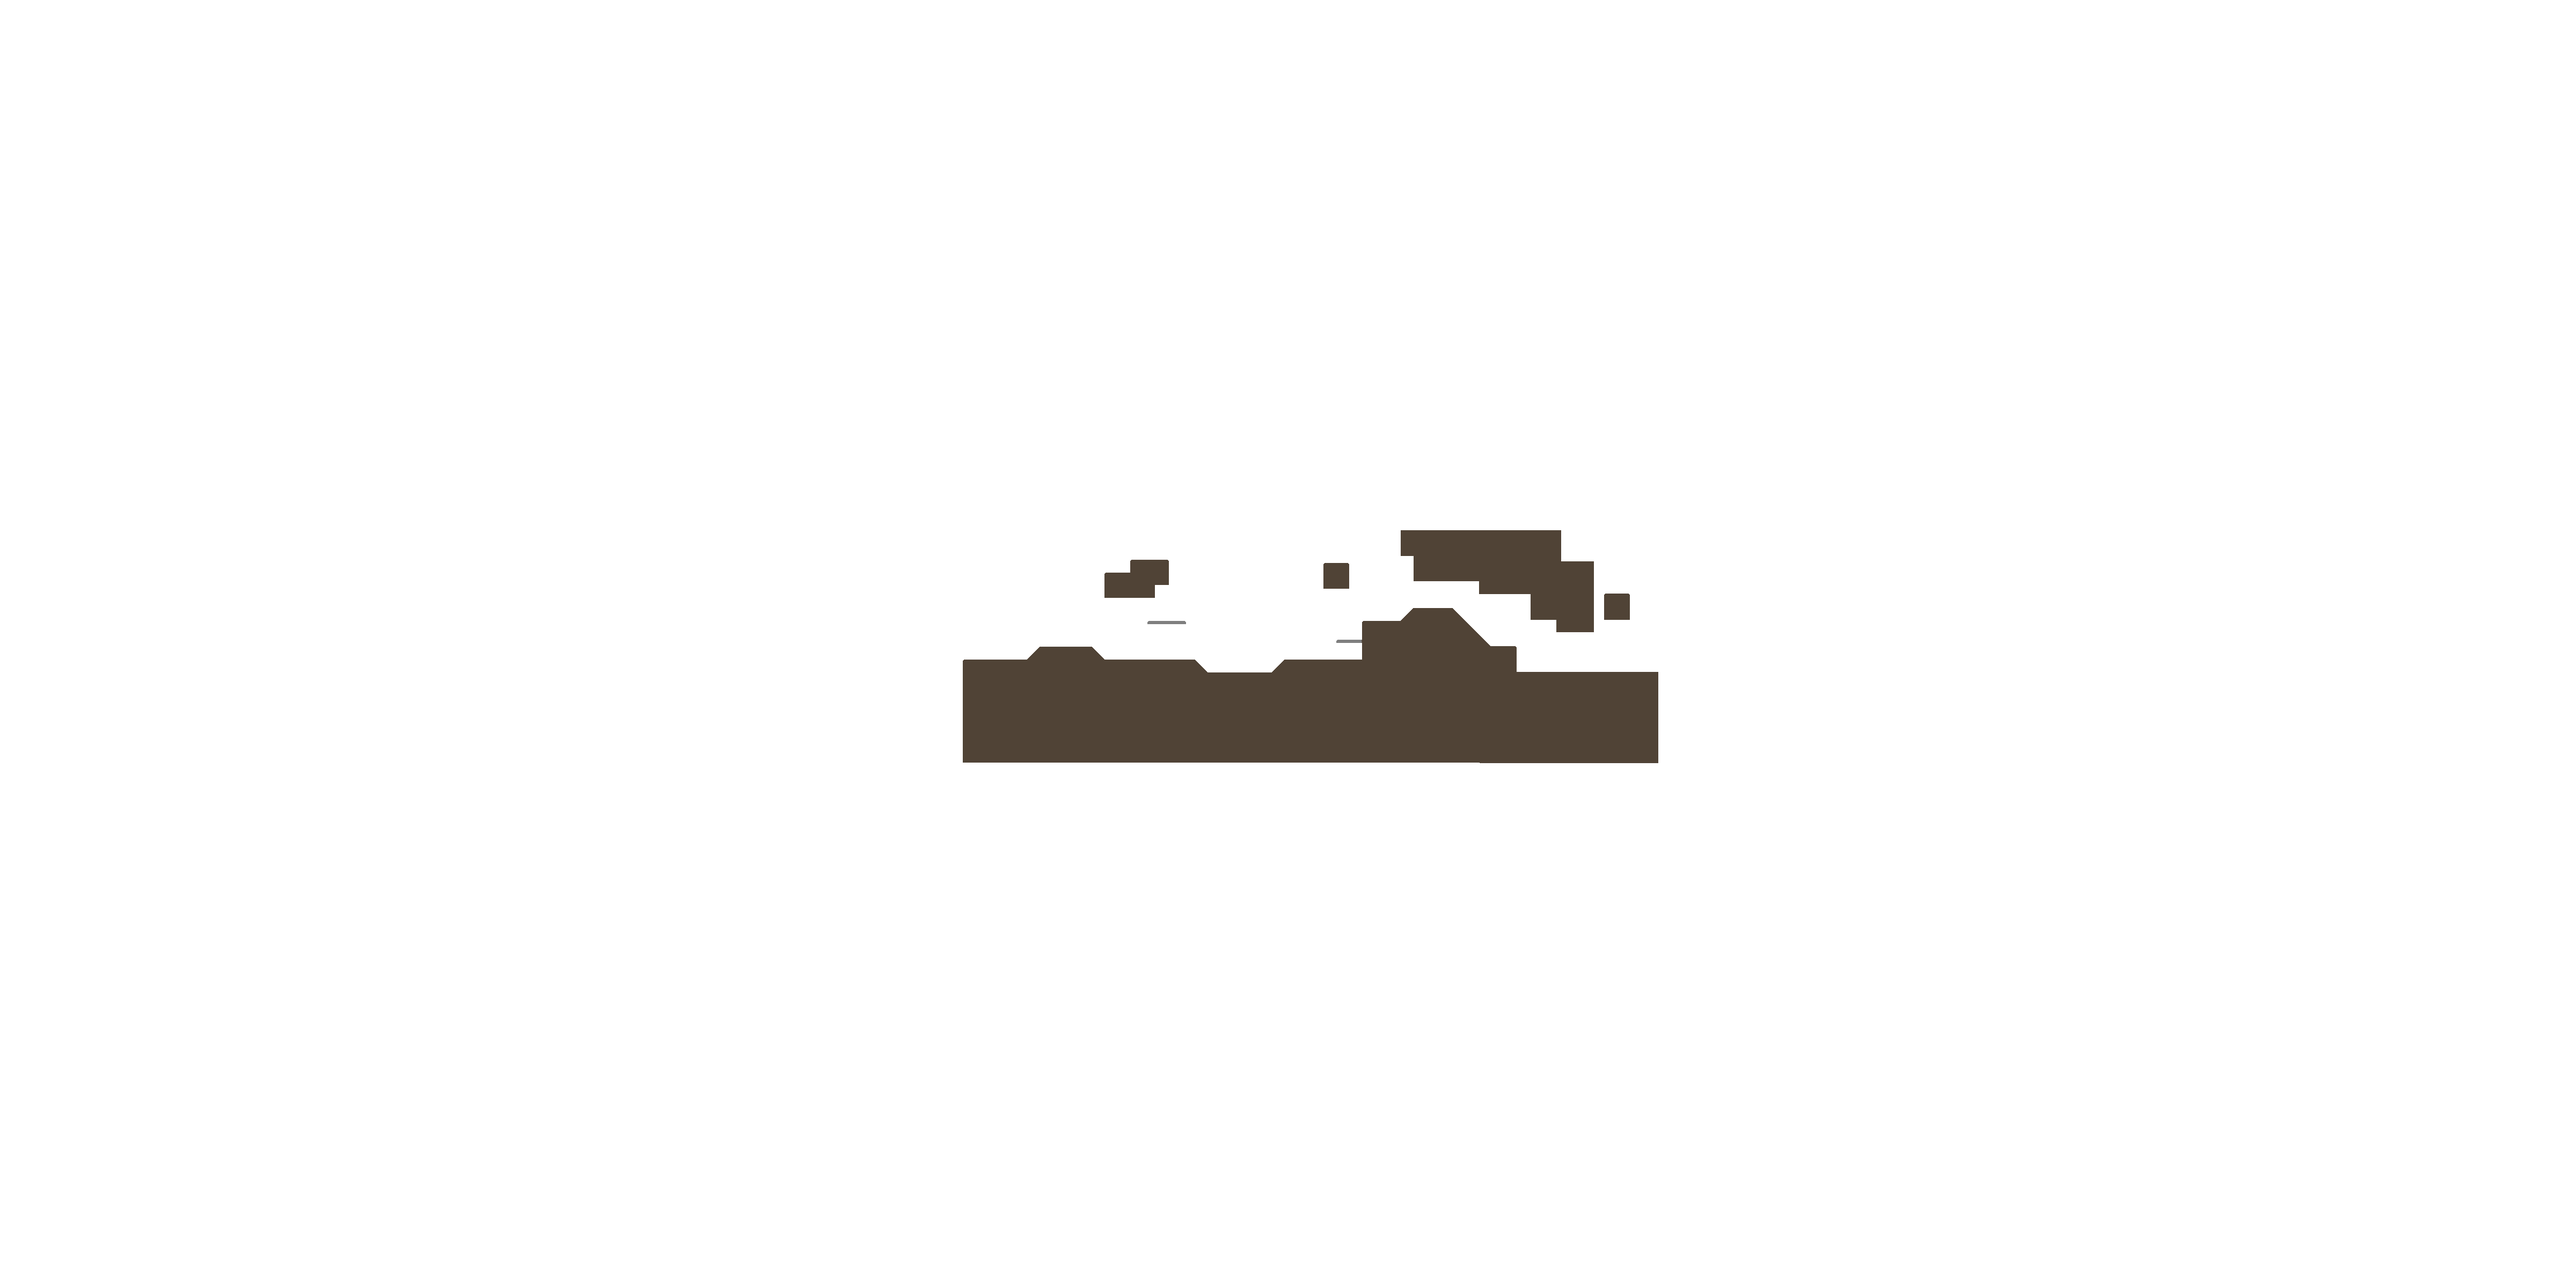
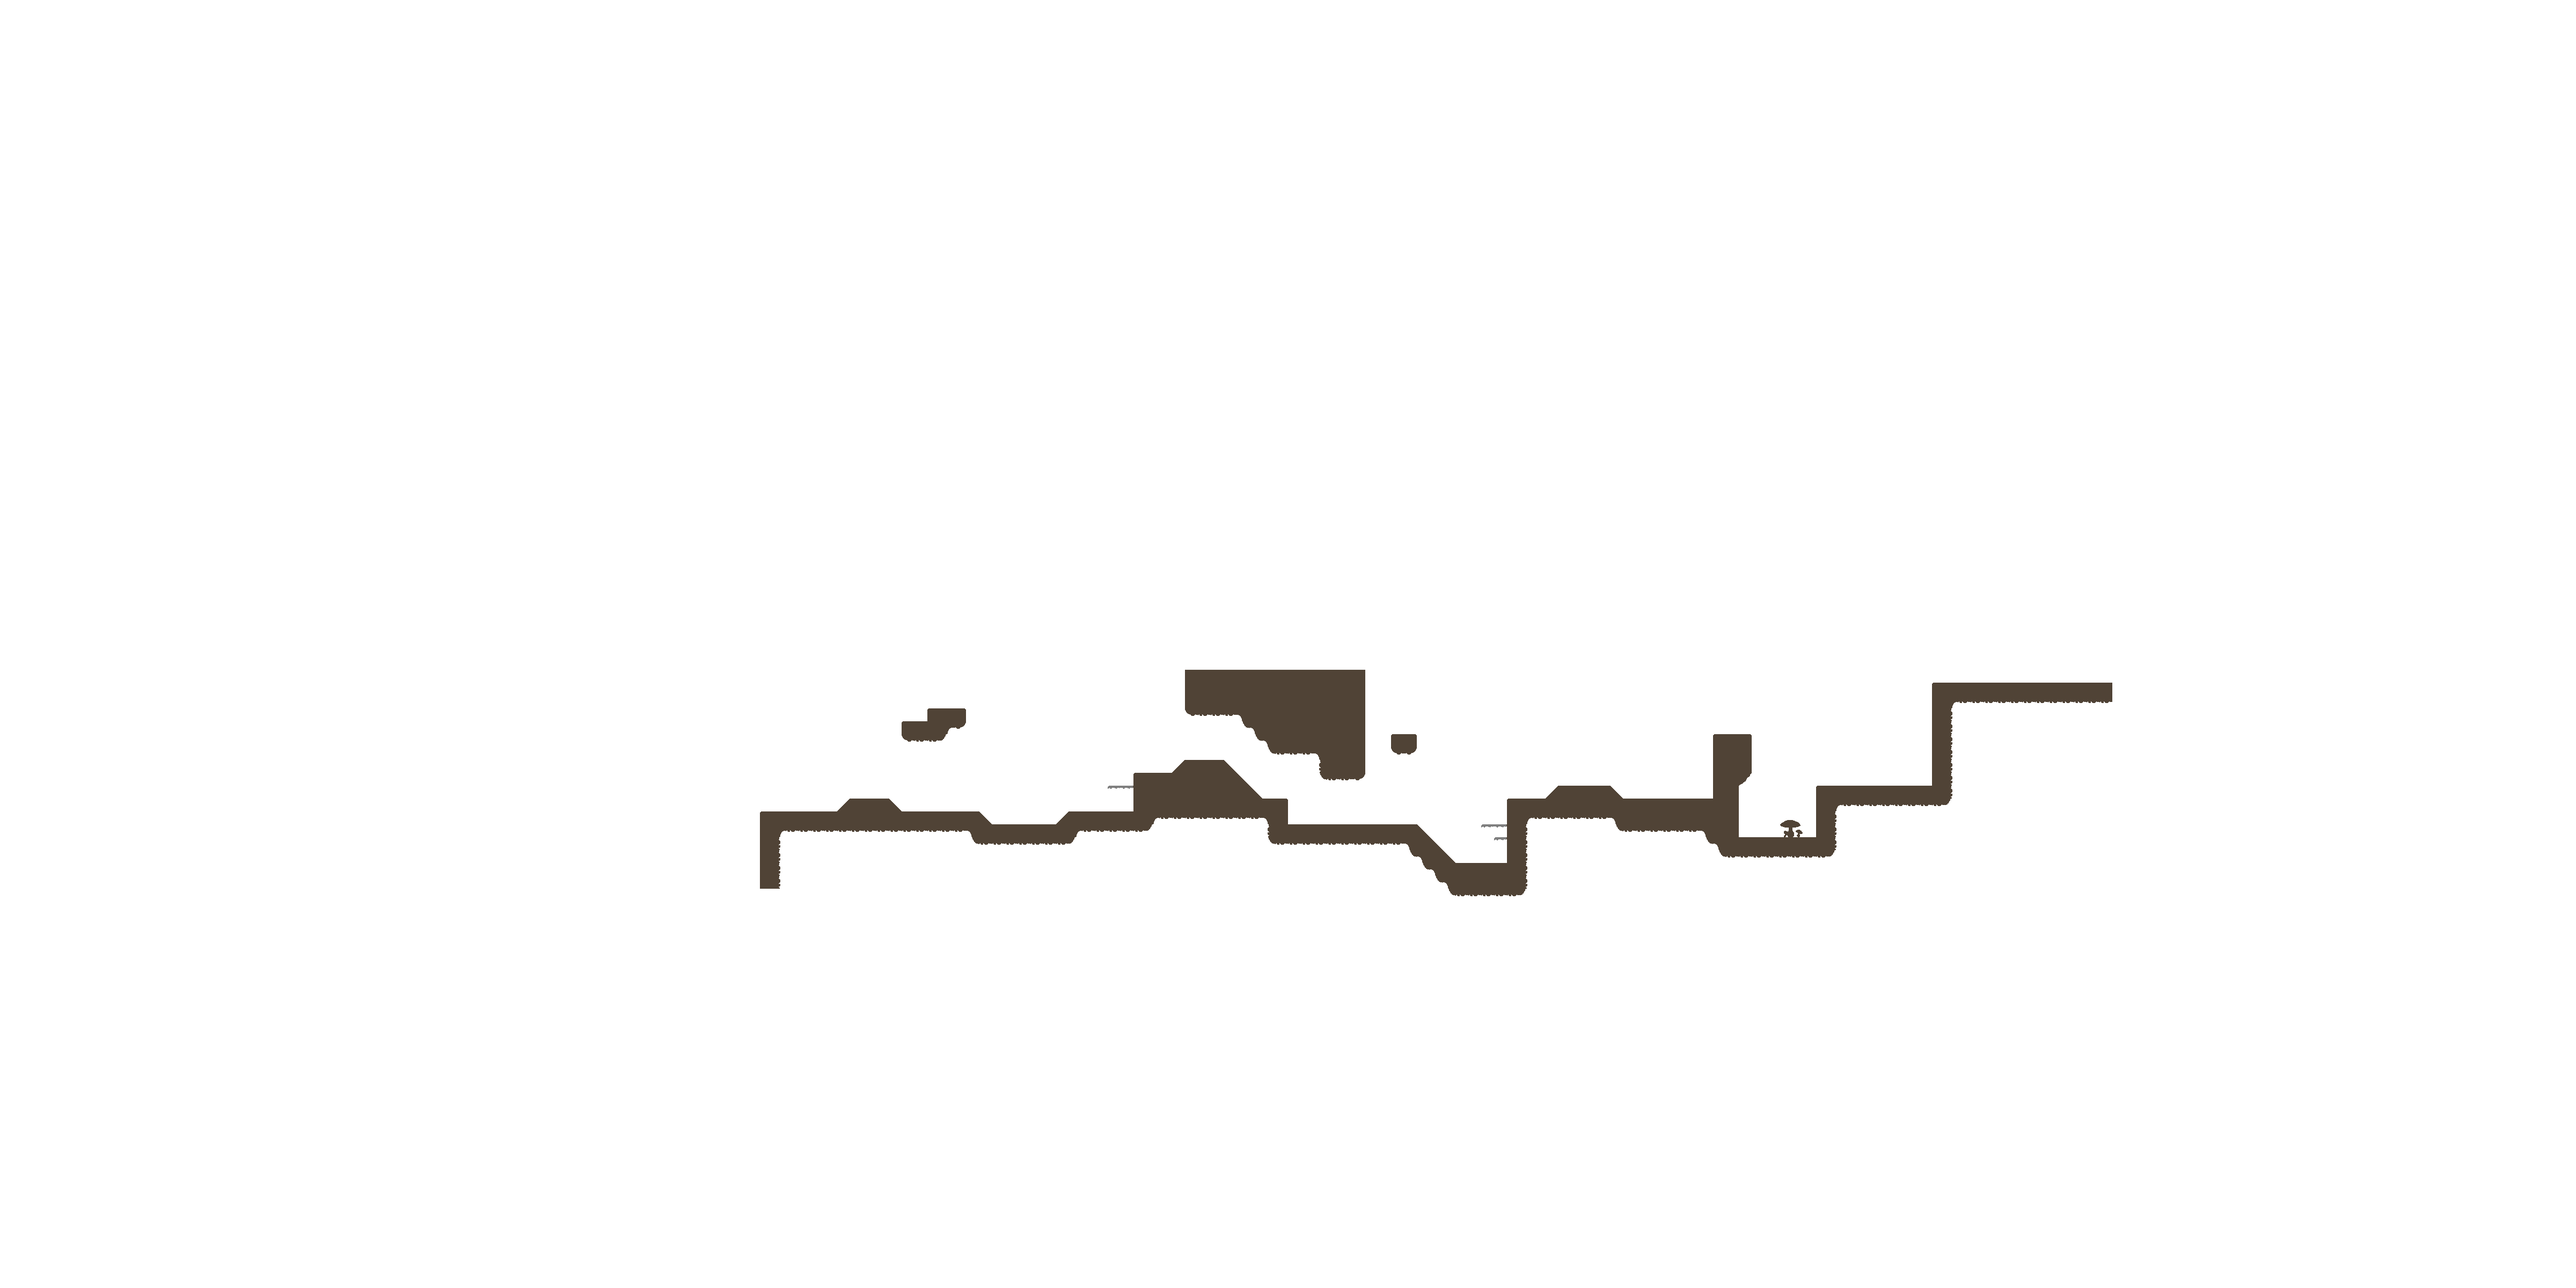
feat: improve zoom, camera focus with rotation, improve fire

Changed region(s): [[0.2812, 0.4062, 0.8438, 0.7188], [0.4062, 0.4375, 0.4688, 0.4688]]

diff --git a/src/Camera.ts b/src/Camera.ts
@@ -1,4 +1,5 @@
 import { Vector2, clamp } from './util';
+import { ValueCurve, valueCurves } from './Particles';
 
 interface camFocus {
     x: number;
@@ -7,15 +8,19 @@ interface camFocus {
     startTime: number;
     endTime: number;
     zoom: number;
+    rotation: number;
     progress: number;
     dead: boolean;
     force: number;
+    curve: ValueCurve;
+    resolve?: Function;
 };
 
 export class Camera {
     public x = 0;
     public y = 0;
     public zoom = 1;
+    public rotation = 0;
     private focuses: camFocus[] = [];
     private time = 0;
     private interpolationTime!: number;
@@ -26,7 +31,10 @@ export class Camera {
         }
         this.interpolationTime = interpolationTime / 2;
         // TODO remove this example camera focus
-        setTimeout(() => this.focusOn(3, 2150,1350, 0.5), 5000);
+        setTimeout(async () => {
+            this.focusOn(4, (window as any).game.fire.x, (window as any).game.fire.y + 20, 4, Math.PI * 2,
+                valueCurves.cubic.append(valueCurves.cubic.invert(), 0.2));
+        }, 2000);
     }
 
     public update(dt: number, time: number) {
@@ -35,6 +43,7 @@ export class Camera {
         this.x = this.target.x;
         this.y = this.target.y;
         this.zoom = 1;
+        this.rotation = 0;
         // On top of that, apply cam focus(es)
         for (const focus of this.focuses) {
             this.updateAndApplyFocus(focus);
@@ -61,22 +70,30 @@ export class Camera {
 
     public applyTransform(ctx: CanvasRenderingContext2D): void {
         ctx.scale(this.zoom, this.zoom);
+        ctx.rotate(this.rotation);
         ctx.translate(-this.x, this.y);
     }
 
-    public focusOn(duration: number, x: number, y: number, zoom = 1) {
+    public focusOn(duration: number, x: number, y: number, zoom = 1, rotation = 0,
+            curve = valueCurves.cos(this.interpolationTime)): Promise<void> {
         const focus: camFocus = {
             x,
             y,
             duration,
             zoom,
+            rotation,
             startTime: this.time,
             endTime: this.time + duration,
             progress: 0,
             dead: false,
-            force: 0
+            force: 0,
+            curve
         };
         this.focuses.push(focus);
+        return new Promise((resolve, reject) => {
+            focus.resolve = resolve;
+            this.updateAndApplyFocus(focus);
+        });
     }
 
     public updateAndApplyFocus(focus: camFocus) {
@@ -84,17 +101,20 @@ export class Camera {
         focus.dead = (focus.progress >= 1);
         if (!focus.dead) {
             // Fade in and out of focus using force lerping from 0 to 1 and back to 0 over time
-            let force = 1;
-            if (focus.progress < this.interpolationTime || focus.progress > 1 - this.interpolationTime) {
-                const diff = ((focus.progress < 0.5) ? focus.progress : (1 - focus.progress)) / this.interpolationTime;
-                force = 0.5 - 0.5 * Math.cos(diff * Math.PI);
-            }
-            focus.force = force;
+            const force = focus.force = focus.curve.get(focus.progress);
             // Apply to camera state
             const f1 = 1 - force;
             this.x = f1 * this.x + force * focus.x;
             this.y = f1 * this.y + force * focus.y;
-            this.zoom = f1 * this.zoom + force * focus.zoom;
+            const originalSize = 1 / this.zoom, targetSize = 1 / focus.zoom;
+            const currentSize = f1 * originalSize + force * targetSize;
+            this.zoom = 1 / currentSize;
+            this.rotation = f1 * this.rotation + force * focus.rotation;
+        } else {
+            if (focus.resolve) {
+                focus.resolve();
+                focus.resolve = undefined;
+            }
         }
     }
 

diff --git a/src/game.ts b/src/game.ts
@@ -3,10 +3,13 @@ import { Player } from "./Player";
 import { DummyNPC } from './DummyNPC';
 import { particles, Particles } from './Particles';
 import { Fire } from './Fire';
-import { clamp } from './util';
+import { clamp, now } from './util';
 import { Face } from './Face';
 import { Camera } from './Camera';
 import { FireGfx } from './FireGfx';
+
+const gameWidth = 480;
+const gameHeight = 300;
 
 export interface GameObject {
     draw(ctx: CanvasRenderingContext2D): void;
@@ -21,7 +24,7 @@ export class Game {
 
     private canvas: HTMLCanvasElement;
 
-    private lastUpdateTime = Date.now();
+    private lastUpdateTime = now();
 
     /* Time delta in game logic time (0 while game is paused, elapsed seconds since last frame otherwise) */
     public dt = 0;
@@ -54,12 +57,16 @@ export class Game {
     private frameCounter = 0;
     private framesPerSecond = 0;
     private showFPS = true;
+    private useRealResolution = false;
+    private scale = 1;
 
     constructor(canvas: HTMLCanvasElement) {
         this.canvas = canvas;
+        this.updateCanvasSize();
+        window.addEventListener("resize", () => this.updateCanvasSize());
         this.boundLoop = this.loop.bind(this);
         this.player = new Player(this, 2656, 1270);
-        this.fire = new Fire(this, 2450, 1170);
+        this.fire = new Fire(this, 2548, 864);
         this.particles = particles;
         this.camera = new Camera(this.player);
         this.gameObjects = [
@@ -84,7 +91,7 @@ export class Game {
     }
 
     private start() {
-        this.lastUpdateTime = Date.now();
+        this.lastUpdateTime = now();
         this.loop();
     }
 
@@ -94,9 +101,27 @@ export class Game {
         requestAnimationFrame(this.boundLoop);
     }
 
+    private updateCanvasSize() {
+        const width = window.innerWidth;
+        const height = window.innerHeight;
+        const dpr = window.devicePixelRatio;
+        const scale = Math.min(width / gameWidth, height / gameHeight);
+        this.canvas.style.width = gameWidth * scale + "px";
+        this.canvas.style.height = gameHeight * scale + "px";
+        if (this.useRealResolution) {
+            this.canvas.width = gameWidth * scale * dpr;
+            this.canvas.height = gameHeight * scale * dpr;
+            this.scale = scale * dpr;
+        } else {
+            this.canvas.width = gameWidth;
+            this.canvas.height = gameHeight;
+            this.scale = 1;
+        }
+    }
+
     private update() {
         const prevTime = this.lastUpdateTime;
-        this.lastUpdateTime = Date.now();
+        this.lastUpdateTime = now();
         const realDt = (this.lastUpdateTime - prevTime) / 1000;
         this.appDt = realDt;
         this.appTime += realDt;
@@ -130,7 +155,7 @@ export class Game {
         ctx.translate(ctx.canvas.width / 2, ctx.canvas.height / 2);
 
         // Scale by three because everything was based on 480x300 canvas and now its three times larger
-        ctx.scale(3, 3);
+        ctx.scale(this.scale, this.scale);
 
         // Draw stuff
         this.camera.applyTransform(ctx);
@@ -143,9 +168,11 @@ export class Game {
 
         // Display FPS counter
         if (this.showFPS) {
+            ctx.save();
             ctx.fillStyle = "white";
-            ctx.font = "18px sans-serif";
-            ctx.fillText(`${this.framesPerSecond} FPS`, 5, 20);
+            ctx.font = (10 * this.scale) + "px sans-serif";
+            ctx.fillText(`${this.framesPerSecond} FPS`, 2 * this.scale, 10 * this.scale);
+            ctx.restore();
         }
         this.frameCounter++;
     }

diff --git a/src/FireGfx.ts b/src/FireGfx.ts
@@ -12,12 +12,13 @@ export class FireGfx {
     private imageData: ImageData;
     private returnColor: number[] = [0, 0, 0, 255];
     private updateSteps = 0;
+    private bottomLine: number[] = [];
 
     constructor(
         private w = 48,
         private h = 64,
         private coneShaped = true,
-        private stepModulo = 3
+        private stepModulo = 2
     ) {
         this.canvas = document.createElement("canvas");
         this.canvas.width = this.w;
@@ -32,7 +33,6 @@ export class FireGfx {
     public static async load(): Promise<void> {
         const gradientImg = await loadImage("gradients/fire.png");
         this.gradient = ColorGradient.fromImage(gradientImg);
-        console.log(this.gradient);
     }
 
     private init() {
@@ -54,6 +54,7 @@ export class FireGfx {
             const smooth = 0.5 - 0.5 * Math.cos(2 * Math.PI * stuffedXrel);
             bottom[x] = 1.25 * Math.pow(smooth, 0.5);
         }
+        this.bottomLine = bottom.slice();
     }
 
     private getDecay(xrel: number, yrel: number): number {
@@ -95,9 +96,17 @@ export class FireGfx {
                     fromX = toCenter * midX + toCenter1 * fromX;
                 }
                 const fromX1 = Math.floor(fromX), fx = fromX - fromX1;
-                const v = fx * fromRow[fromX1 + 1] + (1 - fx) * fromRow[fromX1] - decayRow[x];
+                const v = fx * fromRow[fromX1 + 1] + (1 - fx) * fromRow[fromX1] - decayRow[x] + rnd(-0.03, 0.02);
                 row[x] = clamp(v, 0, Infinity);
             }
+        }
+        // Bottom line always stays mostly the same, only minor variations
+        const row = data[this.h - 1];
+        const t = this.updateSteps * 0.1
+        for (let x = 0; x < this.w; x++) {
+            // const f = 1 + 0.5 * Math.sin(0.1 * x + t) * Math.sin()
+            let f = 1.2 + (0.8 * Math.sin(t) * Math.sin(0.1 * x * t) * Math.sin(-0.07 * x * t)) ** 2;
+            row[x] = this.bottomLine[x] * f;
         }
     }
 

diff --git a/src/Particles.ts b/src/Particles.ts
@@ -248,6 +248,18 @@ export class ValueCurve {
     public getExact(p: number): number {
         return this.func(p);
     }
+
+    public invert(): ValueCurve {
+        return new ValueCurve((p) => this.getExact(1 - p), this.steps);
+    }
+
+    public append(otherCurve: ValueCurve, relativeLength = 1): ValueCurve {
+        const total = 1 + relativeLength;
+        const mid = (total - relativeLength) / total;
+        return new ValueCurve((p) => p < mid ? this.getExact(p / mid) :
+                otherCurve.getExact((p - mid) / relativeLength),
+                Math.max(this.steps, otherCurve.steps));
+    }
 }
 
 function trapezeFunction(v: number, v1: number = v): ((p: number) => number) {
@@ -258,5 +270,6 @@ export const valueCurves = {
     linear: new ValueCurve((p) => p),
     trapeze: (v: number = 0.1, v1: number = v) => new ValueCurve(trapezeFunction(v, v1)),
     cos: (v: number = 0.1, v1: number = v) =>
-            new ValueCurve((p) => 0.5 - 0.5 * Math.cos(Math.PI * trapezeFunction(v, v1)(p)))
-}
+            new ValueCurve((p) => 0.5 - 0.5 * Math.cos(Math.PI * trapezeFunction(v, v1)(p))),
+    cubic: new ValueCurve((p) => 3 * p * p - 2 * p * p * p)
+};

diff --git a/src/Fire.ts b/src/Fire.ts
@@ -63,11 +63,12 @@ export class Fire extends NPC {
         this.sparkEmitter = particles.createEmitter({
             position: {x: this.x, y: this.y},
             velocity: () => ({ x: rnd(-1, 1) * 30, y: rnd(50, 100) }),
-            color: () => "#fff0c0" + rndItem("3456789abcdef") + "0",
+            color: () => FireGfx.gradient.getCss(rnd() ** 0.5),
             size: 2,
             gravity: {x: 0, y: -100},
             lifetime: () => rnd(1, 1.5),
             blendMode: "screen",
+            alpha: () => rnd(0.3, 1),
             alphaCurve: valueCurves.trapeze(0.05, 0.2)
         });
         this.face = new Face(this, 1, 0, 6);
@@ -97,7 +98,7 @@ export class Fire extends NPC {
             if (rnd() < 0.05) {
                 this.face?.setMode(Math.floor(Math.random() * 4));
             }
-            if (rnd() < 0.3) {
+            if (rnd() < 0.5) {
                 this.sparkEmitter.emit();
             }
             if (rnd() < 0.25) {

diff --git a/src/ColorGradient.ts b/src/ColorGradient.ts
@@ -10,6 +10,11 @@ export class ColorGradient {
         return this.mapping(clamp(p, 0, 0.9999999999));
     }
 
+    public getCss(p: number): string {
+        const color = this.get(p);
+        return `rgba(${color[0]},${color[1]},${color[2]},${color[3]})`;
+    }
+
     public static fromTable(table: number[][]): ColorGradient {
         const items = table.length;
         const grad = new ColorGradient((v) => {

diff --git a/src/util.ts b/src/util.ts
@@ -34,3 +34,8 @@ export function timedRnd(dt: number, averageDelay: number): number {
 export function clamp(v: number, min: number, max: number): number {
     return v < min ? min : v > max ? max : v;
 }
+
+const timeDelta = Date.now() - performance.now();
+export function now(): number {
+    return performance.now() + timeDelta;
+}

diff --git a/style.css b/style.css
@@ -23,10 +23,6 @@ body {
     image-rendering: crisp-edges;
 }
 
-#gameCanvas:hover {
-    cursor: none;
-}
-
 #gameCanvas:focus {
     outline: 0;
 }
